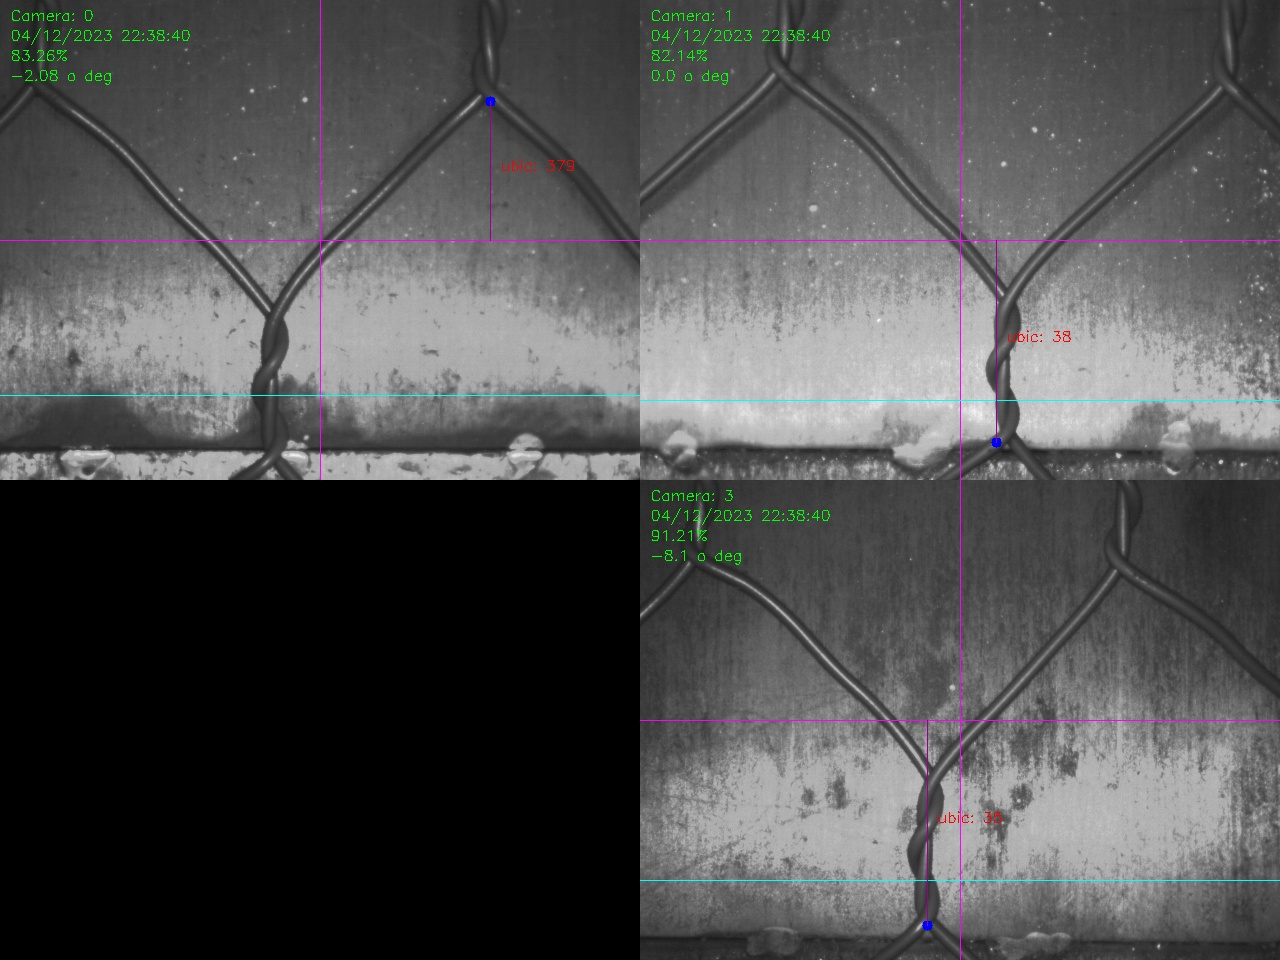
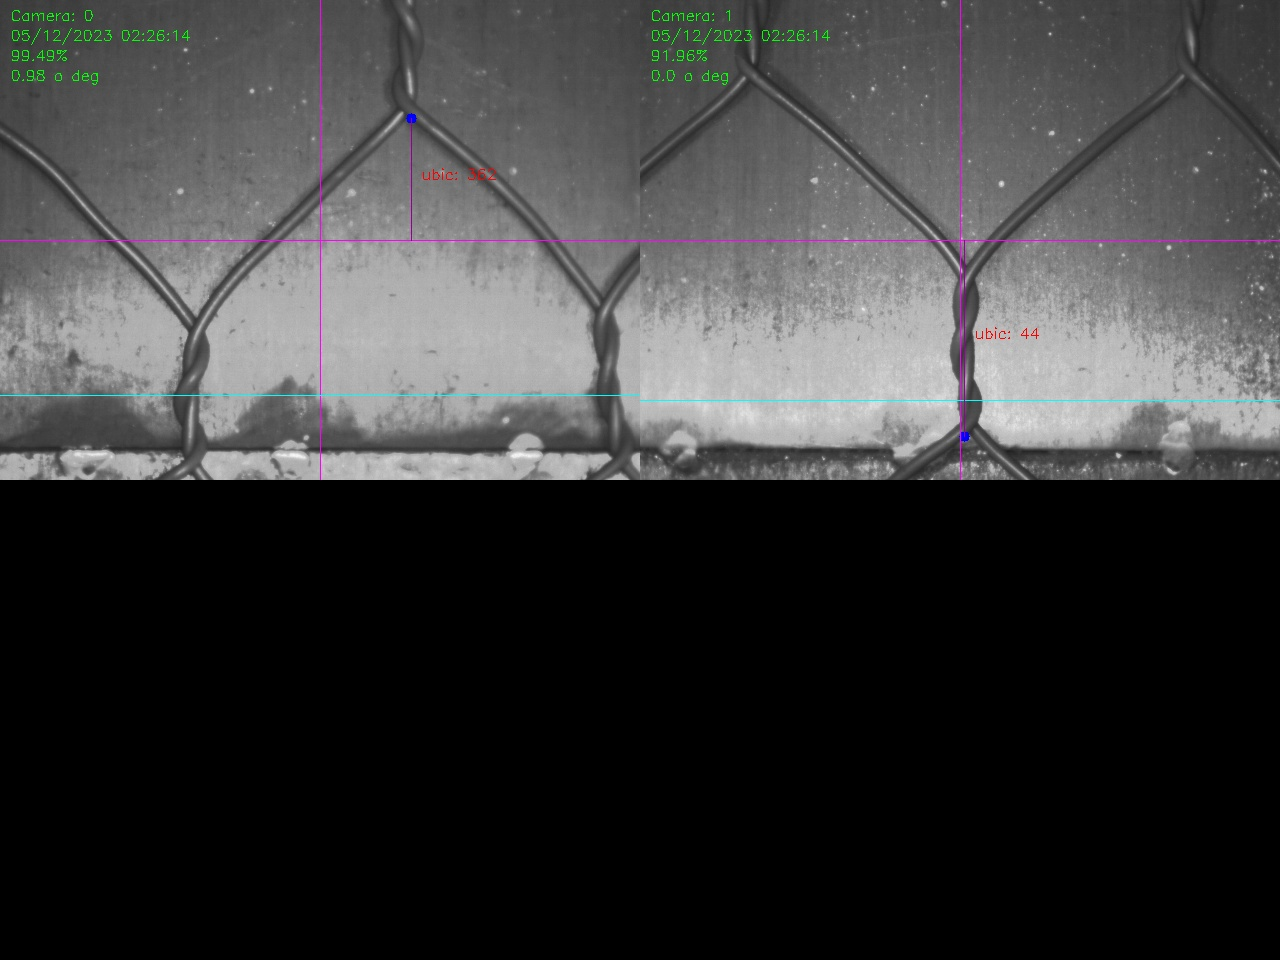
Final 01, align error available, cam2 dissabled, feedback on point, corrector de valores

diff --git a/apps/static/assets/js/plc-app.js b/apps/static/assets/js/plc-app.js
@@ -129,6 +129,7 @@ document.addEventListener("DOMContentLoaded", function() {
                 console.log(`Status: ${data.status}`);
                 console.log(`Error: ${data.error}`);
                 console.log(`New Point: ${data.new_point}`);
+                console.log(`Align: ${data.align}`);
                 // Navegate through result_cam
                 
             })

diff --git a/apps/plc_app.py b/apps/plc_app.py
@@ -3,6 +3,8 @@ import time
 import json
 import threading
 import base64
+import numpy as np
+from scipy.stats import linregress
 from flask import request
 from flask_socketio import SocketIO, emit
 from .lib import XmlRpcProxyManager, PLCDataSender, ImageClient
@@ -98,35 +100,44 @@ class AlambresWebApp:
         print(f"-> PLC connected on {self.config['plc']['ip']}")
         return 0
     
-    def method_test(self, app):
-        # Process app
-        app = f"app{app:02d}"
-
-        # get index from the "names" area inside "cameras": "cam02" -> 2, make a list with that if they are enamled
-        cam_list = [int(cam["name"][3:]) for cam in self.config[app]['cameras'] if self.config['cameras'][int(cam["name"][3:])]['enabled'] ]
-        
-        cameras = self.config[app]['cameras']
-        # Process indexes and differences
-        for index in cam_list:
-            name = f"cam{index:02d}"
-            # get the camera dictionarie from the selected app by name
-            cam = [cam for cam in cameras if cam['name'] == name][0]
-
-            # Verify plc cut order
-            if self.plc_client.plc_states['TRIG_CUT'] == True:
-                set_point = cam['set-merma']
-            else:
-                set_point = cam['set-point']
-            print("set_point:", set_point)
-
-        
-        print(cam_list)
-
-    def eliminar_outliers(self, lista, num_desviaciones=2):
+    def detectar_outliers(self, lista, num_desviaciones=1):
         media = sum(lista) / len(lista)
         desviacion_estandar = (sum((x - media) ** 2 for x in lista) / len(lista)) ** 0.5
-        return [x for x in lista if abs(x - media) <= num_desviaciones * desviacion_estandar]
+        outliers = [x for x in lista if abs(x - media) > num_desviaciones * desviacion_estandar]
+        return outliers
 
+    def calcular_pendiente(self, lista_ajustada, list_index):
+        # list of pos from cameras from config
+        # lista_pos = [self.config['cameras'][i]['pos'] for i in list_index]
+
+        x = np.arange(len(lista_ajustada))
+        # x = np.array(lista_pos)
+        y = np.array(lista_ajustada)
+        print(f"lista_pos: {list_index}")
+        print(f"x: {x}, y: {y}")
+        slope, intercept, r_value, p_value, std_err = linregress(x, y)
+        return slope
+
+    def ajustar_outliers(self, lista, compensacion, num_desviaciones=1):
+        outliers = self.detectar_outliers(lista, num_desviaciones)
+        lista_sin_outliers = [x for x in lista if x not in outliers]
+        mediana = np.median(lista_sin_outliers)
+
+        # Ajustar outliers y elegir el valor más cercano a la mediana
+        outliers_ajustados = []
+        for outlier in outliers:
+            ajuste_suma = outlier + compensacion
+            ajuste_resta = outlier - compensacion
+            ajuste_cercano = min([ajuste_suma, ajuste_resta, outlier], key=lambda x: abs(x - mediana))
+            outliers_ajustados.append(ajuste_cercano)
+
+        # Reemplazar outliers en la lista original
+        lista_ajustada = lista.copy()
+        for outlier, ajustado in zip(outliers, outliers_ajustados):
+            idx = lista_ajustada.index(outlier)
+            lista_ajustada[idx] = ajustado
+        
+        return lista_ajustada
     
     def detection_execution(self, app):
         """Return: {'new_point': new_point, 'error': error_mm, 'imagen': encoded_image}}"""
@@ -137,57 +148,88 @@ class AlambresWebApp:
         
         # Process app
         app = f"app{app:02d}"
+        compensator = self.config[app]['nudo']/self.config['scale']['pix2mm']
 
         # Get index from the "names" area inside "cameras": "cam02" -> 2, make a list with that if they are enabled
         cam_list = [int(cam["name"][3:]) for cam in self.config[app]['cameras'] if self.config['cameras'][int(cam["name"][3:])]['enabled'] ]
+        disabled_list = [index for index, cam in enumerate(self.config[app]['cameras']) if not self.config['cameras'][int(cam["name"][3:])]['enabled']]
         
         # Execute detection
         result_list = self.camera_manager.execute_detection(cam_list)
-        print(f"Detection executed: {result_list}")
+        
+        # make a list of y coordinates from the result_list
+        y_list = [result[1]['y'] for result in result_list if result is not None and result[0] == 0]
+        print(f"y_list: {y_list}")
+        # Detect outliers
+        outliers = self.ajustar_outliers(y_list, compensator)
+        print(f"outliers: {outliers}")
+
+        # Verify plc cut order
+        merma = self.plc_client.plc_states['TRIG_CUT']
+        if merma == True:
+            print("\t-> Merma ON")
+            set_key = 'set-merma'
+        else:
+            print("\t-> Merma OFF")
+            set_key = 'set-point'     
+        # Promedio de setpoints
+        prom_set_point = sum([cam[set_key] for cam in self.config[app]['cameras']])/len(self.config[app]['cameras'])         
 
         # Process indexes and differences
         cameras = self.config[app]['cameras']
+        compensar = True if sum(outliers)/len(outliers) < prom_set_point else False
+        # colocar None en la posicion de las camaras deshabilitadas en outliers
+        for i, val in enumerate(result_list):
+            if val is None:
+                outliers.insert(i, None)
+                continue
+            if val[0] != 0:
+                outliers.insert(i, None)  
+        print(f"outliers new: {outliers}")
+
         differences = []
+        diff_ind = []
+        print(cam_list)
         for index in cam_list:
             print(f"\t-> Camera {index}:", end=" ")
             name = f"cam{index:02d}"
             # Get the camera dictionarie from the selected app by name
             cam = [cam for cam in cameras if cam['name'] == name][0]
 
-            # Verify plc cut order
-            result_list[index][1]['merma'] = self.plc_client.plc_states['TRIG_CUT']
-            if self.plc_client.plc_states['TRIG_CUT'] == True:
-                print("\t-> Merma ON")
-                set_point = cam['set-merma']
-            else:
-                print("\t-> Merma OFF")
-                set_point = cam['set-point']                
+            # Set point
+            set_point = cam[set_key] 
+            result_list[index][1]['merma'] = merma
             result_list[index][1]['set_point'] = set_point
             
             # Get the result from the result_list by index
-            result = result_list[index] 
-            if result[0] == 0:
-                if abs(result[1]['y'] - set_point) <= 25:
-                    diff = 0
-                    differences.append(diff)
-                    continue
-                 
-                if result[1]['y'] > set_point:
-                    diff = result[1]['y'] - set_point
-                    print(f"\t\t-> Operation: {diff} = {result[1]['y']} - {set_point}")
-                elif result[1]['y'] < set_point:
-                    diff =  result[1]['y'] + self.config[app]['nudo']/self.config['scale']['pix2mm'] - set_point
-                    print(f"\t\t-> Operation: {diff} = {result[1]['y']} + {self.config[app]['nudo']/self.config['scale']['pix2mm']} - {set_point}")    
-                # Differences
-                result_list[index][1]['diff'] = diff
-                differences.append(diff)
-        
-        # Align error --------------------------------------------------
-        
+            result = outliers[index]   
+            if result is None:
+                print(f"None")
+                continue
 
-        # Process differences
-        differences = self.eliminar_outliers(differences)
-        print(f"\t-> Differences out: {differences}")
+            if abs(result - set_point) <= 40:
+                diff = result - set_point
+                print(f"\t\t-> Operation: {diff} = {result} - {set_point}")           
+                differences.append(diff)
+                diff_ind.append(index)
+                continue
+
+            if compensar:
+                diff = result - set_point + compensator
+                print(f"\t\t-> Operation: {diff} = {result} - {set_point} + {compensator}")
+            else:
+                diff = result - set_point
+                print(f"\t\t-> Operation: {diff} = {result} - {set_point}")           
+            
+            differences.append(diff)
+            diff_ind.append(index)
+        
+        # Align
+        align = self.calcular_pendiente(differences, diff_ind)
+        if abs(align) > self.config[app]['align']:
+            self.plc_client.cam_states["ErrAlig"] = True
+        print(f"align: {align}")
+        print(f"Detection executed: {result_list}")
         # Calculate error   
         error = sum(differences)/len(differences) if len(differences) > 0 else 0
         error_mm = error * self.config['scale']['pix2mm']
@@ -211,7 +253,7 @@ class AlambresWebApp:
         
         self.plc_client.cam_states['RUNNING'] = False
         self.plc_client.cam_states['READY'] = True
-        return {'new_point': new_point, 'error': error_mm, 'imagen': encoded_image, 'results_cam': result_list}
+        return {'new_point': new_point, 'error': error_mm, 'imagen': encoded_image, 'align': align, 'results_cam': result_list}
 
     def main(self):        
         # Release threads
@@ -221,17 +263,16 @@ class AlambresWebApp:
         self.plc_client.cam_states['RUNNING'] = False
         self.plc_client.cam_states['READY'] = True
         while self.run:
-            # make a beat for cameras 
-            # if time.time() - self.timer > self.beat_time:
-                # self.timer = time.time()
-                # resp = self.camera_manager.heart_beat()
-                # print("Heart beat:", self.plc_client.cam_states) 
-
             # check trigger
             if self.plc_client.plc_states["TRIG"] == False:
                 self.prev_state = False
                 self.plc_client.cam_states['READY_CUT'] = False
-
+                self.plc_client.cam_states["ErrAlig"] = False
+                self.plc_client.cam_states["ErrProc"] = False
+                self.plc_client.cam_states["Cam1_Err"] = False
+                self.plc_client.cam_states["Cam2_Err"] = False
+                self.plc_client.cam_states["Cam3_Err"] = False
+                self.plc_client.cam_states["Cam4_Err"] = False
 
             # Excetute detection trigger
             if self.plc_client.plc_states["TRIG"] ^ self.prev_state:                
@@ -289,7 +330,7 @@ class AlambresWebApp:
             resp = self.detection_execution(camAppState)
             print(f"Detection executed")
 
-            return {'status': 'ok', 'imagen': resp['imagen'], 'error': resp['error'], 'new_point': resp['new_point'], 'results_cam': resp['results_cam']} 
+            return {'status': 'ok', 'imagen': resp['imagen'], 'error': resp['error'], 'new_point': resp['new_point'], 'align': resp['align'], 'results_cam': resp['results_cam']} 
         
         # Socketio events ----------------------------------------------
         # @socketio.on('connect')

diff --git a/apps/lib/rpc_client.py b/apps/lib/rpc_client.py
@@ -196,6 +196,7 @@ class XmlRpcCameraProxy:
         self.test_config = self.proxy.xmlTestConfig(0)
         result = {}
         result['error'] = 1
+        result['y'] = 0
         # print(result)
         return [1, result]
     
